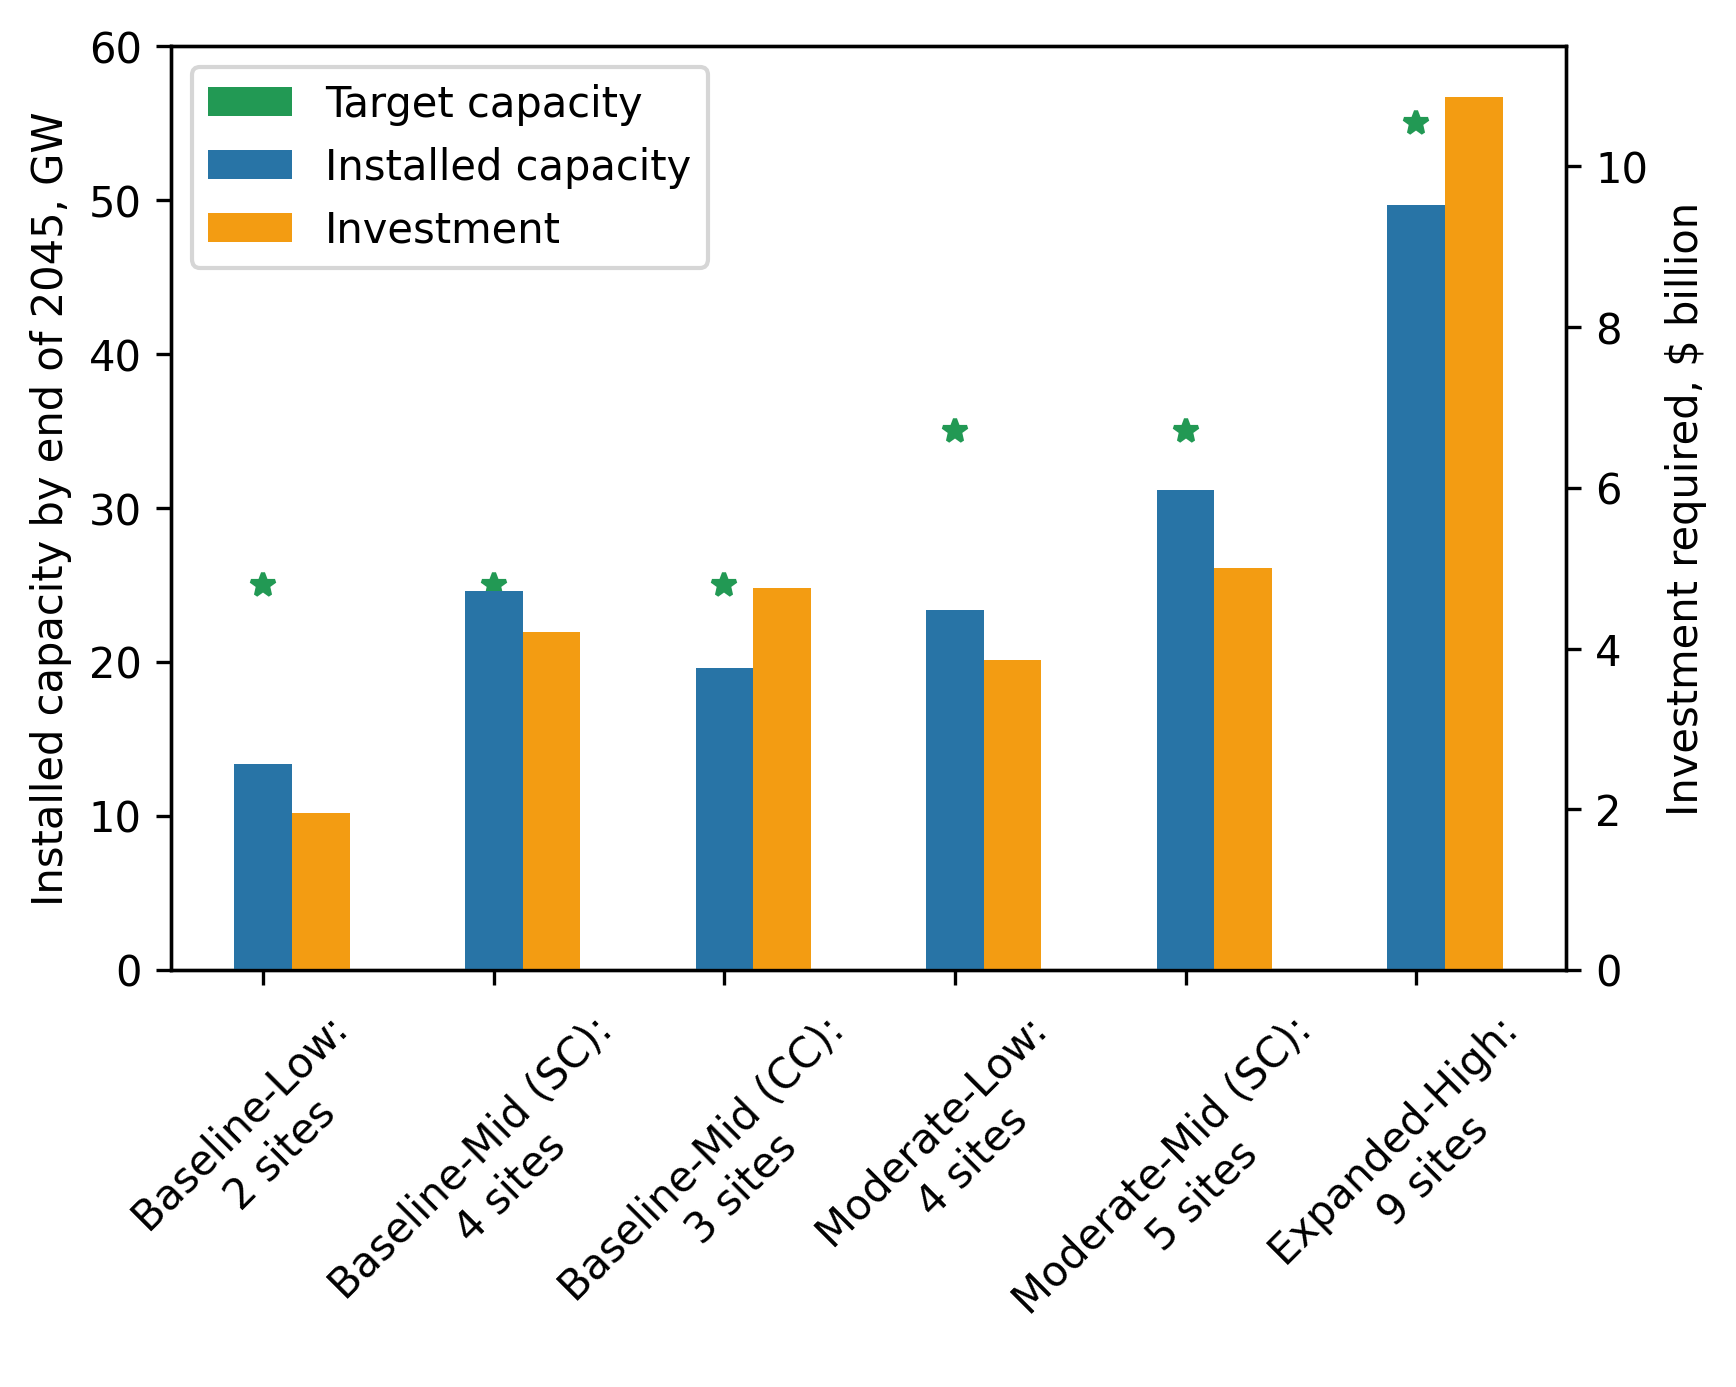
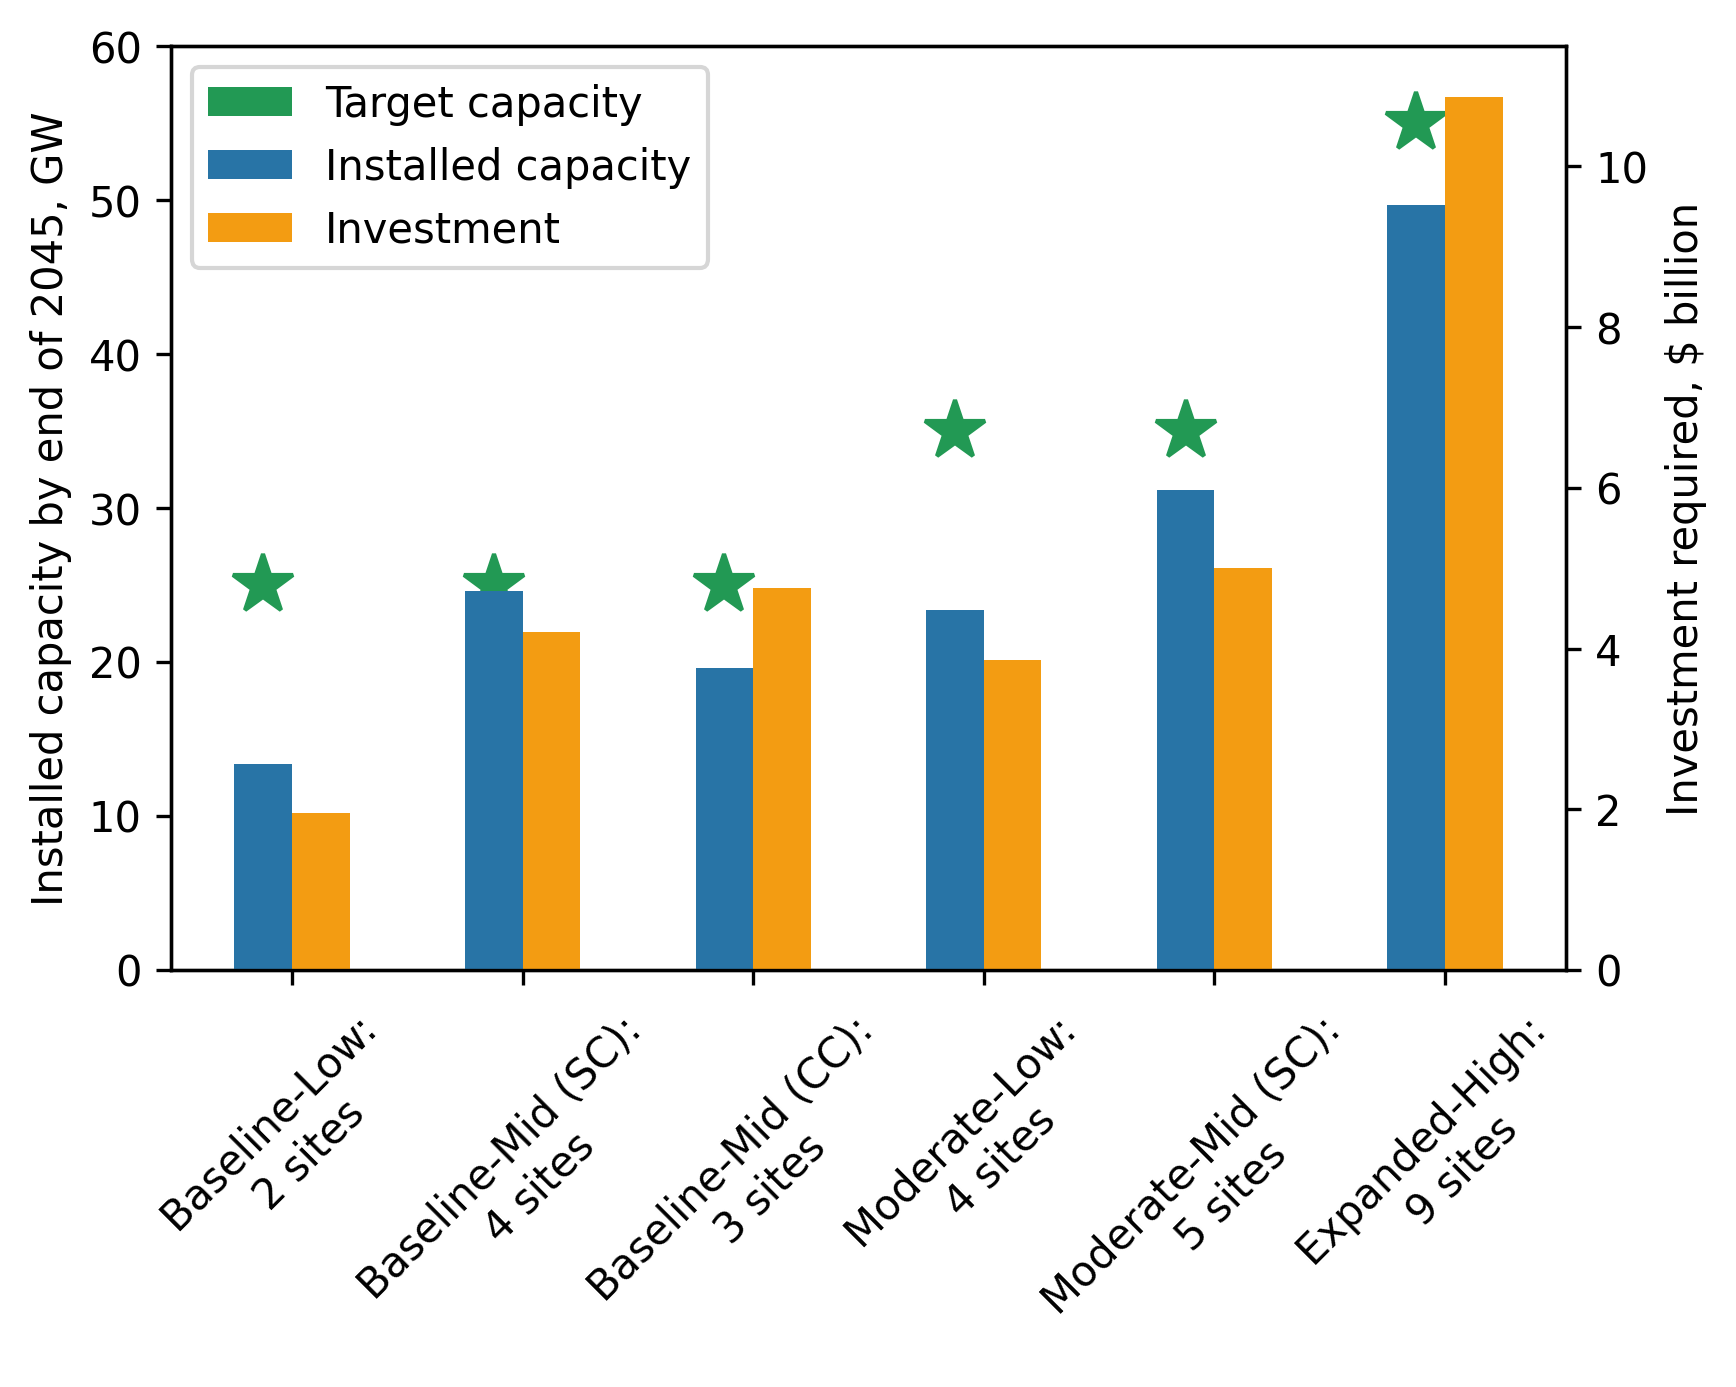
align with ORBIT and stagger start times

diff --git a/analysis/plot_routines.py b/analysis/plot_routines.py
@@ -313,7 +313,7 @@ def plot_summary(scenarios, capacity_list, target_capacity):
 
     target = [target_capacity[s.split('-')[0]] for s in scenarios]
 
-    ax1.plot(x_ind, target, width, color='#229954', marker='*', linestyle="", zorder=0)
+    ax1.plot(x_ind-(width/2), target, width, color='#229954', marker='*', markersize = 15, linestyle="", zorder=0)
 
     not_installed = []
     for goal, actual in zip(target, capacity_list):
@@ -321,7 +321,7 @@ def plot_summary(scenarios, capacity_list, target_capacity):
         not_installed.append(dif)
     df_installs = pd.DataFrame(list(zip(scenarios, capacity_list, not_installed)), columns=['Scenarios', 'Installed', 'Not installed'])
 
-    ax1.bar(x_ind, capacity_list, width, color='#2874A6', zorder=5)
+    ax1.bar(x_ind-(width/2), capacity_list, width, color='#2874A6', zorder=5)
 
     ax1.set_ylabel('Installed capacity by end of ' + str(by_year) + ', GW')
     ax1.set_ylim([0,60])
@@ -331,7 +331,7 @@ def plot_summary(scenarios, capacity_list, target_capacity):
     for s,p in zip(scenarios, perc_installed):
         perc_installed_dict[s] = p
 
-    ax2.bar(x_ind+width, invest_list, width, color='#F39C12')
+    ax2.bar(x_ind+(width/2), invest_list, width, color='#F39C12')
     ax2.set_ylabel('Investment required, $ billion')
     ax2.set_ylim([0,11.5])
     ax2.get_yaxis().set_major_formatter(
@@ -339,6 +339,7 @@ def plot_summary(scenarios, capacity_list, target_capacity):
 
     ax1.set_xticks(x_ind)
     plot_names = ['Baseline-Low: \n2 sites', 'Baseline-Mid (SC): \n4 sites', 'Baseline-Mid (CC): \n3 sites', 'Moderate-Low: \n4 sites', 'Moderate-Mid (SC): \n5 sites', 'Expanded-High: \n9 sites']
+#    plot_names = scenarios
     ax1.set_xticklabels(plot_names, rotation=45)
 
     handles = [

diff --git a/analysis/main.py b/analysis/main.py
@@ -16,7 +16,7 @@ from plot_routines import plot_gantt, plot_throughput, plot_gantt_nt, assign_col
 # Configure scenarios and keep_inputs
 projects = "library/pipeline/wc-pipeline.xlsx"
 scenarios = ['Baseline-Low', 'Baseline-Mid (SC)', 'Baseline-Mid (CC)', 'Moderate-Low', 'Moderate-Mid (SC)', 'Expanded-High']
-#scenarios = ['Expanded-High']
+#scenarios = ['Baseline-Low']
 base = "base.yaml"
 library_path = "library"
 weather_path = "library/weather/humboldt_weather_2010_2018.csv"
